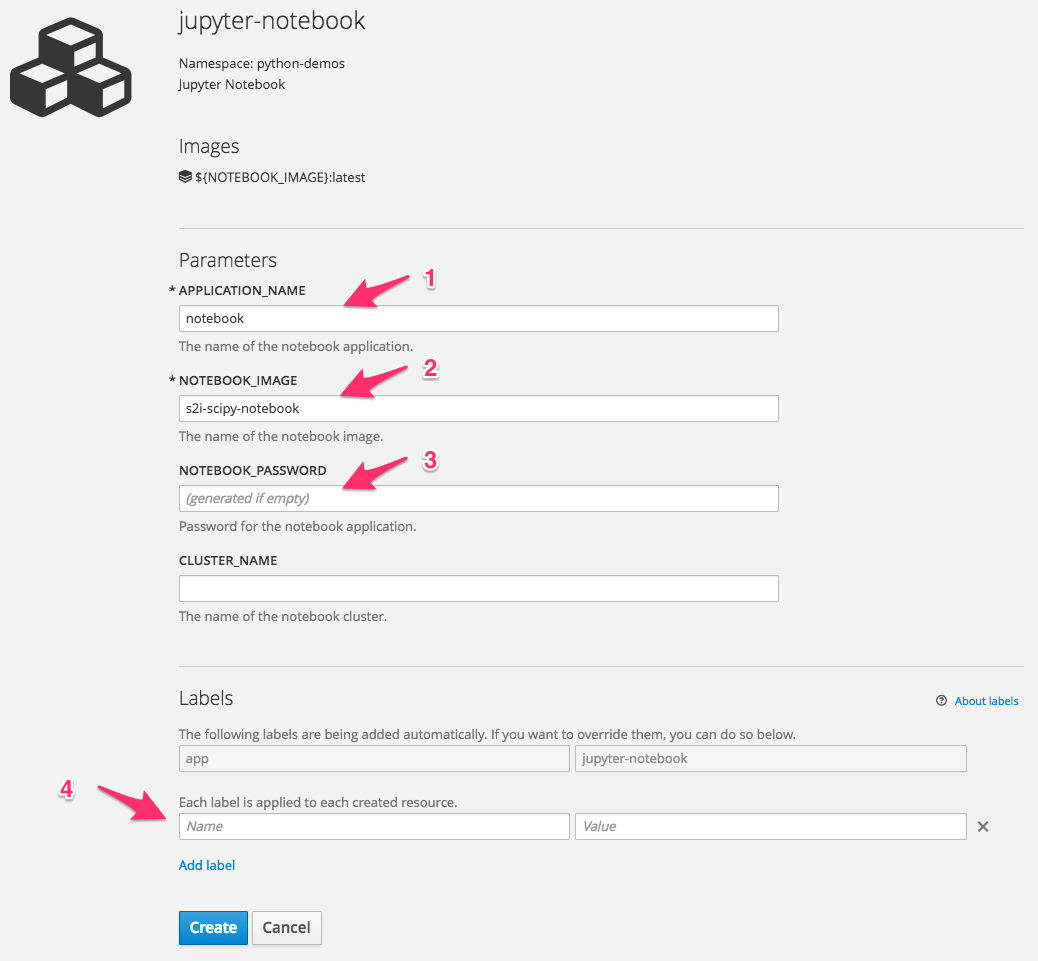
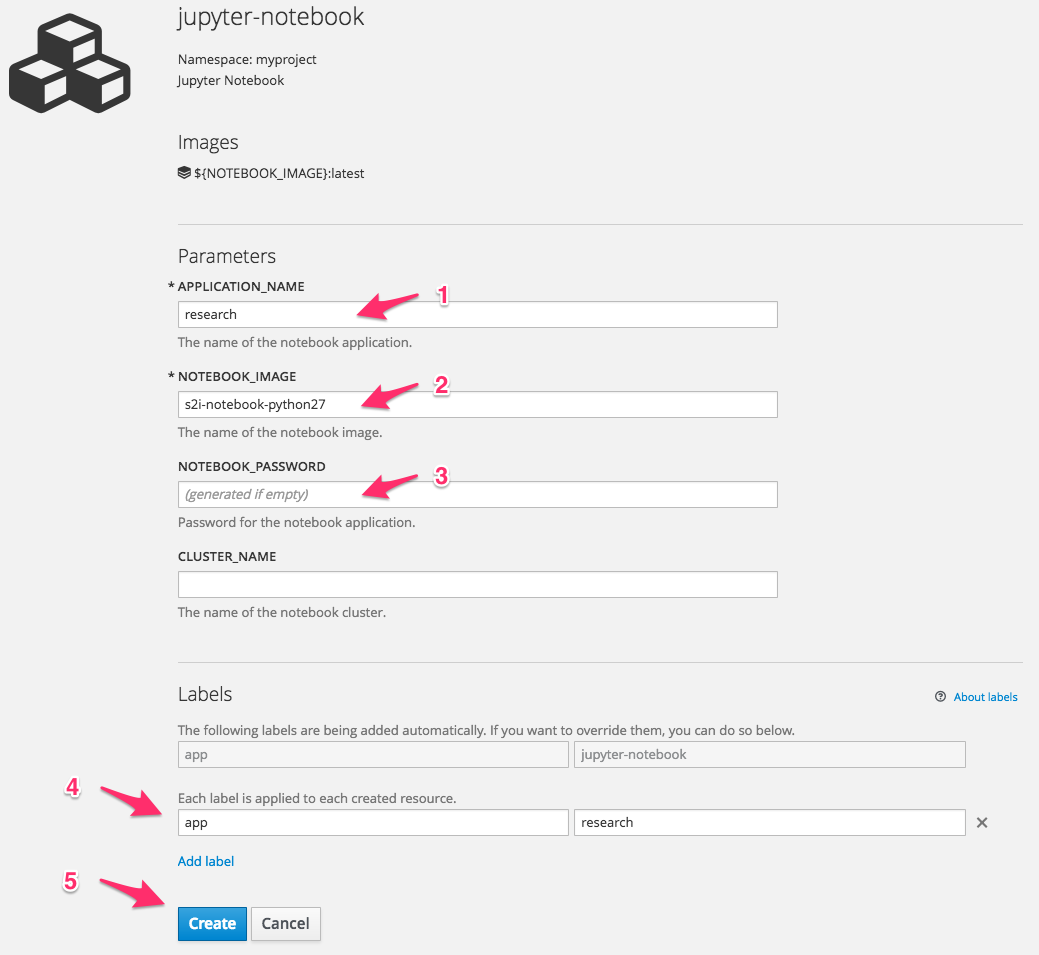
Update README after changes to images.

diff --git a/README.md b/README.md
@@ -1,8 +1,6 @@
 # S2I Enabled Jupyter Notebook Images
 
-*Note: Please don't use these at this time. For unknown reasons Docker build is blowing out the size of the images to ridiculous sizes which make them unusable as the size overwhelms any system. Further investigation is being done to understand why.*
-
-This repository provides templates and documentation for deploying [Source-to-Image](https://github.com/openshift/source-to-image) (S2I) enabled [Jupyter Notebook](http://jupyter.org) images on OpenShift.
+This repository provides templates and documentation for deploying [Source-to-Image](https://github.com/openshift/source-to-image) (S2I) enabled [Jupyter Notebook](http://jupyter.org) images for Python on OpenShift.
 
 ## Comparison to Jupyter Project Images
 
@@ -12,42 +10,35 @@ The images that the Jupyter project provides will not work with the default secu
 
 The issues preventing the Jupyter project images being able to be run in a default installation of OpenShift have been [reported](https://github.com/jupyter/docker-stacks/issues/188) via the GitHub project but at this point have not been addressed.
 
-To address those issues, the images which can be built from this repository are a layer on top of the Jupyter project images and apply the required fixes to the base images to enable them to work on OpenShift without having to override the default security profile of the OpenShift installation.
+Trying to fix the issues in the Jupyter project images by creating a derived image that makes changes is not realistic as the nature of the changes results in the image size ballooning out to a point where it isn't practical to use. As a consequence, the Jupyter notebook images used here go back to scratch, providing a basic image and the tools to construct custom images yourself inside of OpenShift using S2I.
 
-The images here have also been S2I enabled to provide an easy way of binding source files, including notebooks, Python code files and data files, with an image and deploy it to OpenShift. The build process using S2I can also install additional Python modules required by a user to run their notebooks.
+## Jupyter Notebook Base Image
 
-To make use of OpenShift's ability to easily spin up multiple applications and processes, the images have also been extended to add support for doing parallel computing using the ``ipyparallel`` package.
+Two Jupyter notebook base images are currently being made available:
 
-## Customised Images Available
+* getwarped/s2i-notebook-python27 - ([GitHub Repository](https://github.com/getwarped/s2i-notebook-python27), [Docker Hub](https://hub.docker.com/r/getwarped/s2i-notebook-python27/))
+* getwarped/s2i-notebook-python35 - ([GitHub Repository](https://github.com/getwarped/s2i-notebook-python35), [Docker Hub](https://hub.docker.com/r/getwarped/s2i-notebook-python35/))
 
-At this point, this project has a focus on providing customised images for working in Python using the Jupyter notebooks. The images which are available are:
+The images include only the basic Python packages required to run a Jupyter notebook server, as well as the ``ipyparallel`` package for parallel computing.
 
-* getwarped/s2i-minimal-notebook - ([GitHub Repository](https://github.com/getwarped/s2i-minimal-notebook), [Docker Hub](https://hub.docker.com/r/getwarped/s2i-minimal-notebook/))
-* getwarped/s2i-scipy-notebook - ([GitHub Repository](https://github.com/getwarped/s2i-scipy-notebook), [Docker Hub](https://hub.docker.com/r/getwarped/s2i-scipy-notebook/))
-* getwarped/s2i-tensorflow-notebook ([GitHub Repository](https://github.com/getwarped/s2i-tensorflow-notebook), [Docker Hub](https://hub.docker.com/r/getwarped/s2i-tensorflow-notebook/))
-
-Variants of other Jupyter project images including support for other languages aren't being provided.
-
-Do be aware that the Jupyter project base images are very large. The first time you attempt to deploy one, it may take some time as it is downloaded and then pushed out to the node your application is deployed on.
+The images are Source-to-Image (S2I) enabled, and use ``waprdrive`` to make it easy to build up custom images including additional Python packages or code, and sample notebook files and data.
 
 ## Loading Images and Templates
 
-The easiest way to deploy these Jupyter notebook images and get working is to import which of the above images you wish to use and then use the OpenShift templates provided with this project to deploy them.
+The easiest way to deploy the Jupyter notebook images and get working is to import which of the above images you wish to use and then use the OpenShift templates provided with this project to deploy them.
 
 To import all the above images into your project, you can run the ``oc import-image`` command.
 
 ```
-oc import-image getwarped/s2i-minimal-notebook --confirm
-oc import-image getwarped/s2i-scipy-notebook --confirm
-oc import-image getwarped/s2i-tensorflow-notebook --confirm
+oc import-image getwarped/s2i-notebook-python27 --confirm
+oc import-image getwarped/s2i-notebook-python35 --confirm
 ```
 
-This should result in the creation of three image streams within your project.
+This should result in the creation of two image streams within your project.
 
 ```
-s2i-minimal-notebook
-s2i-scipy-notebook
-s2i-tensorflow-notebook
+s2i-notebook-python27
+s2i-notebook-python35
 ```
 
 You could deploy the images directly, but the templates provide an easier way of setting a password for your notebooks, and will also ensure that a secure HTTP connection is used when interacting with the notebook interface.
@@ -56,14 +47,14 @@ To load the OpenShift templates you can run the ``oc create`` command.
 
 
 ```
-oc create -f https://raw.githubusercontent.com/getwarped/s2i-jupyter-stacks/master/templates.json
+oc create -f https://raw.githubusercontent.com/getwarped/jupyter-notebooks/master/templates.json
 ```
 
 This should create three templates within your project. The purpose of each template is as follows:
 
 * ``jupyter-notebook`` - Deploy a notebook server from an image stream. This can be one of the standard images listed above, or a customised image which has been created using the ``jupyter-builder`` template. The notebook can optionally be linked to a parallel compute cluster created using ``jupyter-cluster``.
 
-* ``jupyter-builder`` - Create a customised notebook image. This will run the S2I build process, starting with any of the standard images, or even a customised image, to bind additional files into the image. This can be used to incorporate pre-defined notebooks, data files, or install additional Python packages.
+* ``jupyter-builder`` - Create a customised notebook image. This will run the S2I build process, starting with any of the basic images, or even a customised image, to bind additional files into the image. This can be used to incorporate pre-defined notebooks, data files, or install additional Python packages.
 
 * ``jupyter-cluster`` - Deploy a parallel compute cluster comprising of a controller and single compute engine. The number of compute engines can be scaled up to as many as necessary.
 
@@ -73,7 +64,7 @@ To deploy a notebook server, select _Add to Project_ from the web console and en
 
 ![image](images/add_to_project_jupyter_notebook.png)
 
-On the page for the ``jupyter-notebook`` template fill in the name of the application, the name of the image you wish to deploy (defaults to ``s2i-scipy-notebook``) and a password for the notebook server. Also override the ``app`` label applied to resources created when deploying the notebook server with a unique name. This will make it easier to delete the notebook server later.
+On the page for the ``jupyter-notebook`` template fill in the name of the application, the name of the image you wish to deploy (defaults to ``s2i-notebook-python27``) and a password for the notebook server. Also override the ``app`` label applied to resources created when deploying the notebook server with a unique name. This will make it easier to delete the notebook server later.
 
 ![image](images/create_jupyter_notebook.png)
 
@@ -85,7 +76,7 @@ Once created the notebook server will be deployed and automatically exposed via 
 
 When you visit the URL you will be prompted for the password you entered via the template to get access to the notebook server.
 
-If you use any of the ``s2i-minimal-notebook``, ``s2i-scipy-notebook`` or ``s2i-tensorflow-notebook`` images in the ``NOTEBOOK_IMAGE`` field of the template, you will be presented with an empty work directory. You can create new notebooks or upload your own as necessary.
+If you use either of the ``s2i-notebook-python27`` or ``s2i-notebook-python35`` images in the ``NOTEBOOK_IMAGE`` field of the template, you will be presented with an empty work directory. You can create new notebooks or upload your own as necessary.
 
 Do note that by default any work you do is not being saved in a persistent volume. Thus if the notebook server is restarted at any point by you explicitly, or by OpenShift, your work will be lost.
 
@@ -93,11 +84,11 @@ To enable you to preserve your work, even if the notebook server is restarted, y
 
 ![image](images/deployments_attach_storage_notebook.png)
 
-The mount path for the storage should be set to be ``/home/jovyan/work``.
+The mount path for the storage should be set to be ``/opt/app-root/src``.
 
 ![image](images/attach_storage_notebook.png)
 
-The storage should be attached before you do anything else. The notebook server will be automatically restarted when you make the storage request.
+The storage should be attached before you do anything else. The notebook server will be automatically restarted when you make the storage request and attach the volume.
 
 When done with your work, you can download your files using the Jupyter notebook interface. Alternatively, you can use the ``oc rsync`` command to copy files from your application back to your local computer.
 
@@ -107,25 +98,15 @@ Note that when the application is deleted, the persistent storage volume will no
 
 ## Creating a Custom Image
 
-The Jupyter project provides base images with different Python packages pre-installed, that the images provided by this project use. The packages pre-installed with each of the images are:
+Only a basic Jupyter notebook image is provided. If your Jupyter notebooks require additional Python packages you can create a customised image using the ``oc new-build`` command, or the ``jupyter-builder`` template.
 
-* ``s2i-minimal-notebook`` - No additional packages except for ``ipyparallel`` which is installed as part of the S2I enhanced images.
-* ``s2i-scipy-notebook`` - In addition to what is provided by ``s2i-minial-notebook`` also contains ``pandas``, ``matplotlib``, ``scipy``, ``seaborn``, ``scikit-learn``, ``scikit-image``, ``sympy``, ``cython``, ``patsy``, ``statsmodel``, ``cloudpickle``, ``dill``, ``numba`` and ``bokeh``.
-* ``s2i-tensorflow-notebook`` - In addition to what is provided by ``s2i-tensorflow-notebook`` also contains ``tensorflow``.
-
-You can use these images if they provide everything you need, or you can create a custom image containing any additional Python packages by using these images as an S2I builder to install additional packages. You can also use this mechanism to pre-load Python code, data files or notebooks.
-
-The images can be used as a S2I builder from the command line using ``oc new-build``, or you can use the ``jupyter-builder`` template.
-
-Selecting ``jupyter-builder`` from the _Add to Project_ page you will be asked to enter in the name to give the custom notebook image created, the name of the S2I builder image above to use as the base, and the details of a source code repository from which files will be pulled to incorporate into the custom image. To have additional Python packages installed into the custom image, you should add a ``requirements.txt`` for ``pip`` into the directory of the source code repository that files are pulled from.
+From the web console, select ``jupyter-builder`` from the _Add to Project_ page. You will be asked to enter in the name to give the custom notebook image created, the name of the S2I builder image to use as the base, and the details of a source code repository from which files will be pulled to incorporate into the custom image. To have additional Python packages installed into the custom image, you should add a ``requirements.txt`` for ``pip`` into the directory of the source code repository that files are pulled from.
 
 ![image](images/create_jupyter_builder.png)
 
 This template will only create a build and it will not appear on the _Overview_ page. You will be able to find it under the _Builds_ page. 
 
 When the build is complete, you can then use the ``jupyter-notebook`` template to run the image, as described above, by setting ``NOTEBOOK_IMAGE`` to be the name of your custom image.
-
-As when deploying images the first time, due to the large size of the Jupyter project base images, the initial build using a specific base image can be slow due to the time taken to transfer the image to the node where the build is occurring.
 
 ## Running a Compute Cluster
 
